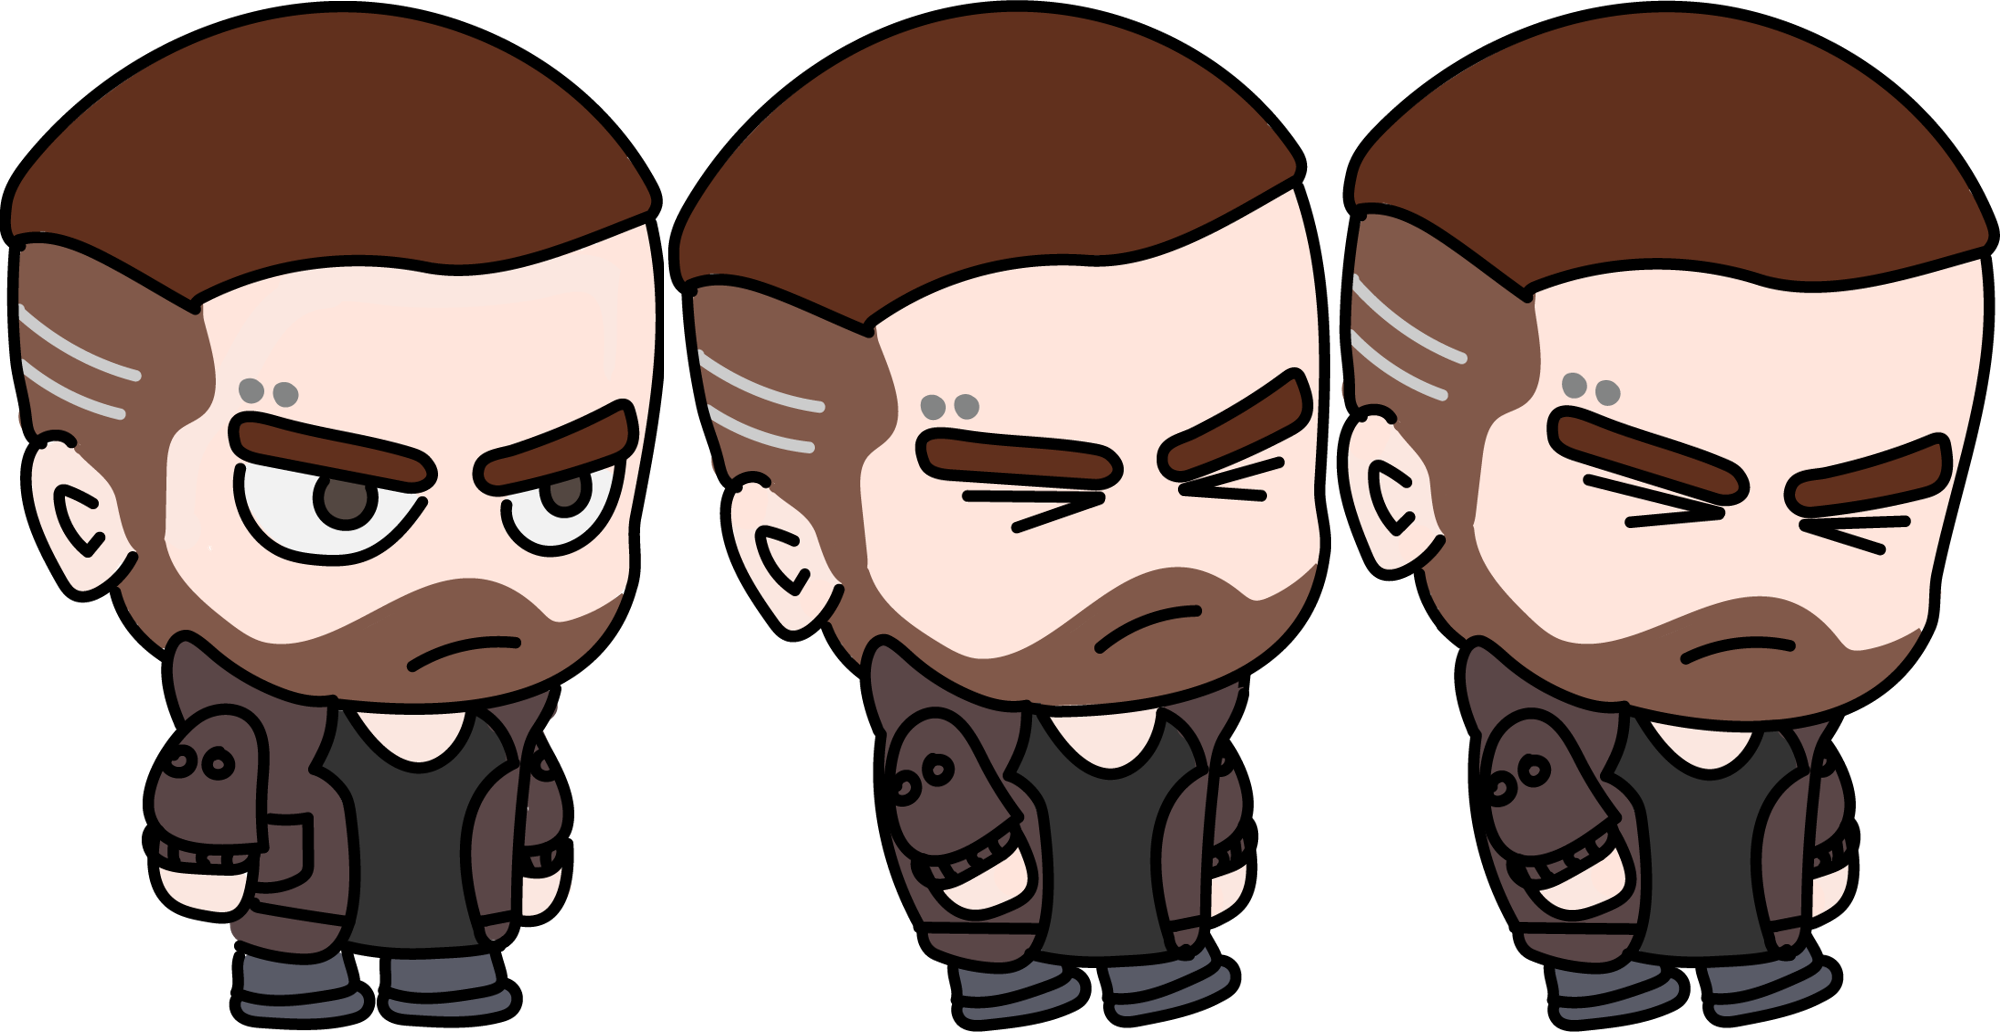
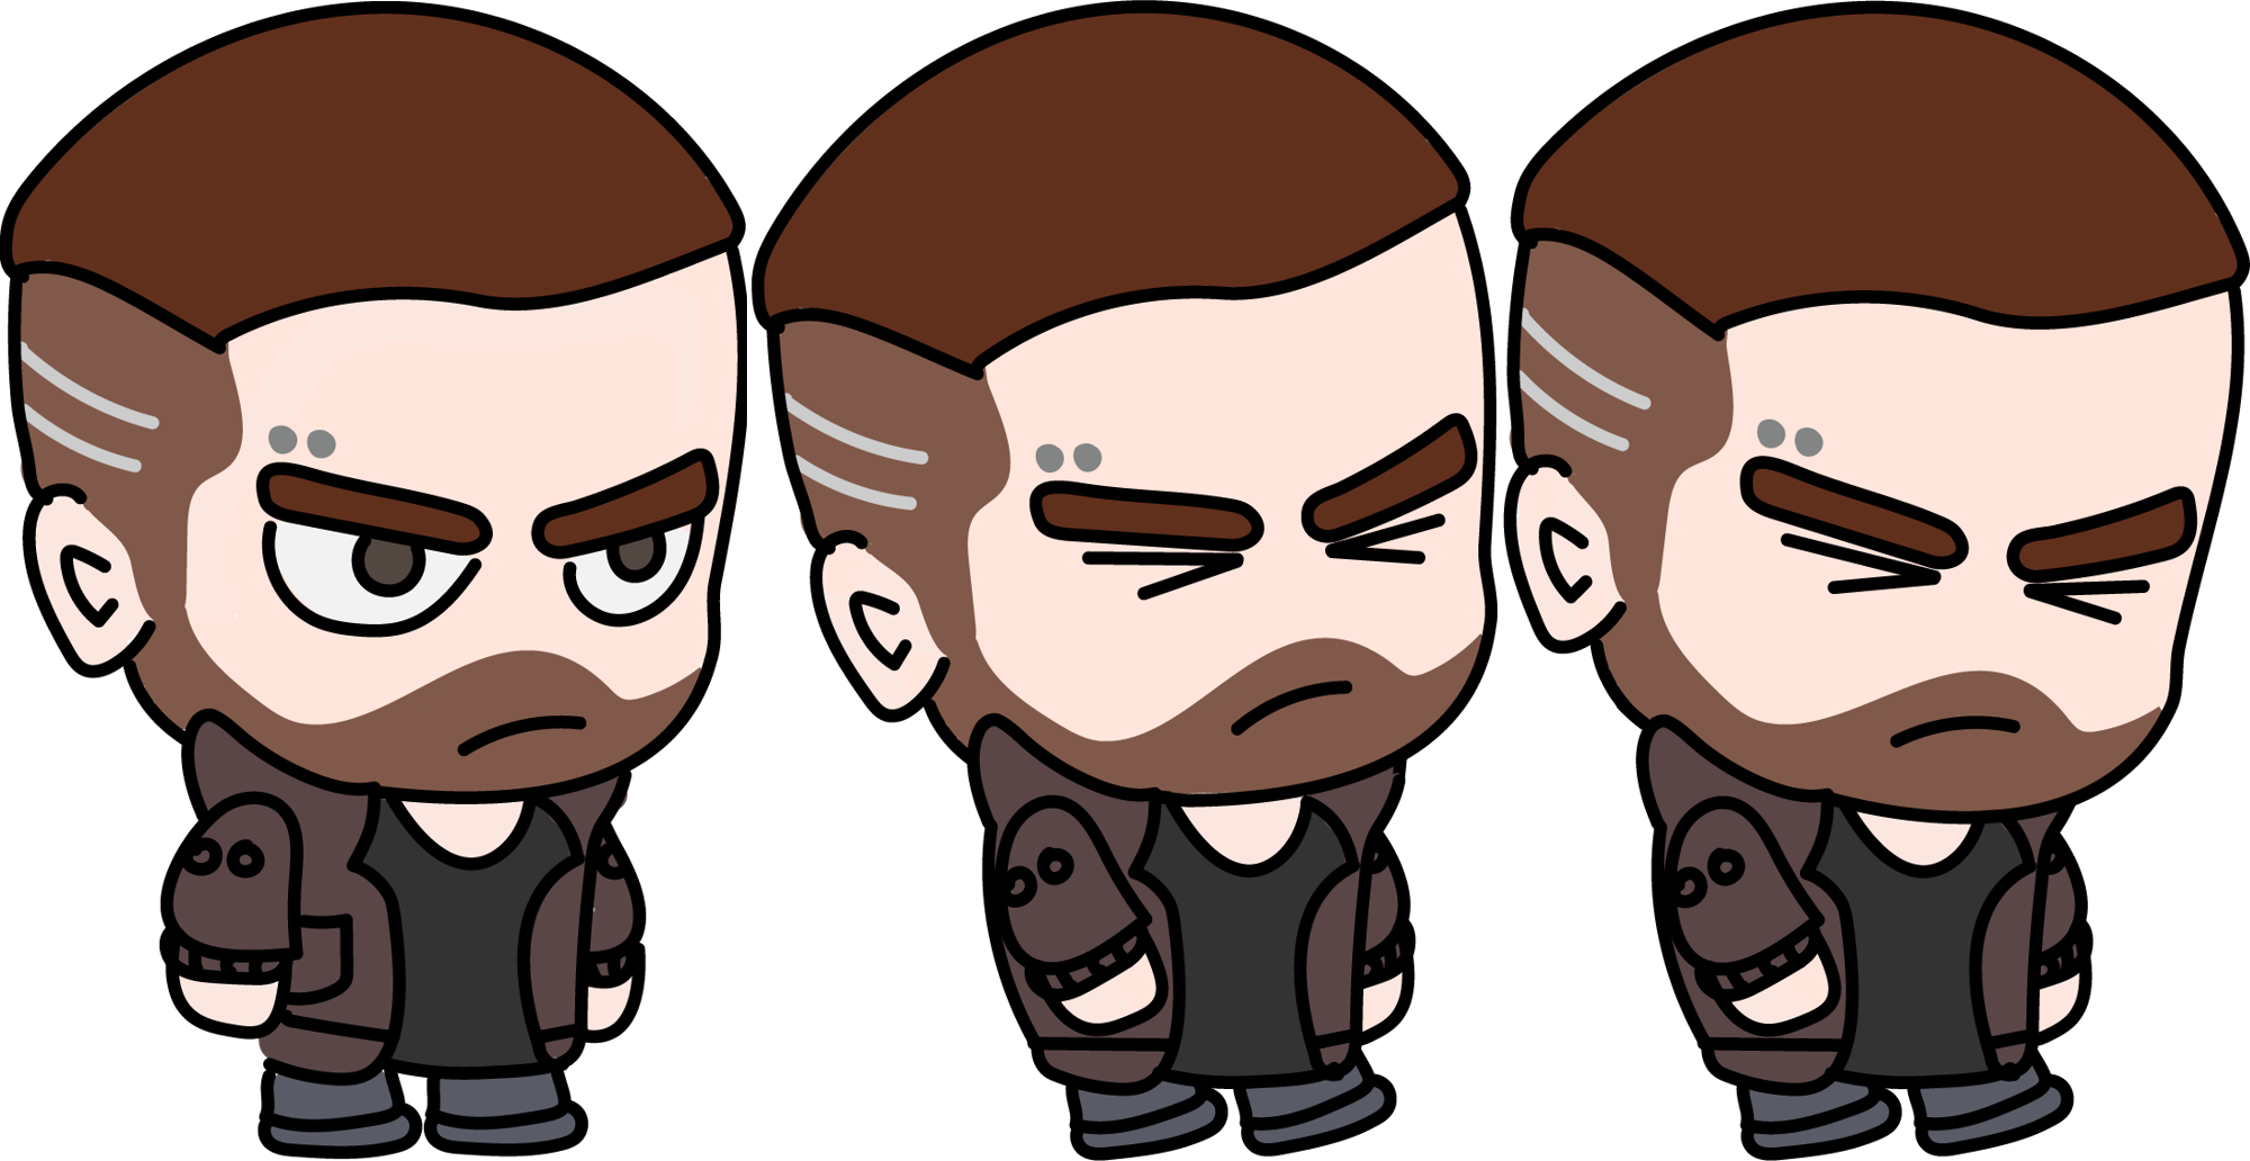
Fixing main character hurt and recovering effect.

Changed region(s): [[0.124, 0.9922, 0.155, 1.0]]

diff --git a/src/main/java/deco2800/skyfall/entities/MainCharacter.java b/src/main/java/deco2800/skyfall/entities/MainCharacter.java
@@ -16,7 +16,6 @@ import deco2800.skyfall.resources.items.Hatchet;
 import deco2800.skyfall.resources.items.PickAxe;
 import deco2800.skyfall.util.*;
 import deco2800.skyfall.worlds.Tile;
-import org.lwjgl.Sys;
 import org.slf4j.Logger;
 import org.slf4j.LoggerFactory;
 
@@ -47,6 +46,8 @@ public class MainCharacter extends Peon
 
     // Variables to sound effects
     public static final String WALK_NORMAL = "people_walk_normal";
+    public static final String HURT = "player_hurt";
+    public static final String DIED = "player_died";
     private SoundManager soundManager = GameManager.get().getManager(SoundManager.class);
 
     //The pick Axe that is going to be created
@@ -126,7 +127,13 @@ public class MainCharacter extends Peon
     private boolean isHurt = false;
 
     /**
-     * Check whether MainCharacter is attacking.
+     * Check id player is recovering
+     */
+    private boolean isRecovering = false;
+    private boolean isTexChanging = false;
+
+    /**
+     * Check id player is attacking
      */
     private boolean isAttacking = false;
 
@@ -192,6 +199,7 @@ public class MainCharacter extends Peon
         this.scale = 0.4f;
         setDirectionTextures();
         configureAnimations();
+        setCollider();
     }
 
     /**
@@ -262,51 +270,62 @@ public class MainCharacter extends Peon
      *
      */
     public void hurt(int damage) {
-        this.changeHealth(-damage);
 
-        if (this.getHealth() <= 0) {
-            kill();
-        } else {
-            hurtTime = 2000;
-            recoverTime = 0;
-            HexVector bounceBack = new HexVector();
-            /*
-            switch (getPlayerDirectionCardinal()) {
-                case "North":
-                    bounceBack = new HexVector(this.direction.getX(), this.direction.getY() - 1);
-                    break;
-                case "North-East":
-                    bounceBack = new HexVector(this.direction.getX() - 1, this.direction.getY() - 1);
-                    break;
-                case "East":
-                    bounceBack = new HexVector(this.direction.getX() - 1, this.direction.getY());
-                    break;
-                case "South-East":
-                    bounceBack = new HexVector(this.direction.getX() - 1, this.direction.getY() + 1);
-                    break;
-                case "South":
-                    bounceBack = new HexVector(this.direction.getX(), this.direction.getY() + 1);
-                    break;
-                case "South-West":
-                    bounceBack = new HexVector(this.direction.getX() + 1, this.direction.getY() + 1);
-                    break;
-                case "West":
-                    bounceBack = new HexVector(this.direction.getX() + 1, this.direction.getY());
-                    break;
-                case "North-West":
-                    bounceBack = new HexVector(this.direction.getX() + 1, this.direction.getY() - 1);
-                    break;
-            }
-            position.moveToward(bounceBack, 0.5f);
+        System.out.println("Hurted: " + isRecovering);
+
+        if(!isRecovering) {
+            setHurt(true);
+            this.changeHealth(-damage);
+
+            if (this.getHealth() <= 0) {
+                kill();
+            } else {
+                hurtTime = 0;
+                recoverTime = 0;
+                HexVector bounceBack = new HexVector();
+
+                switch (getPlayerDirectionCardinal()) {
+                    case "North":
+                        bounceBack = new HexVector(position.getCol(), position.getRow() - 2);
+                        break;
+                    case "North-East":
+                        bounceBack = new HexVector(position.getCol() - 2, position.getRow() - 2);
+                        break;
+                    case "East":
+                        bounceBack = new HexVector(position.getCol() - 2, position.getRow());
+                        break;
+                    case "South-East":
+                        bounceBack = new HexVector(position.getCol() - 2, position.getRow() + 2);
+                        break;
+                    case "South":
+                        bounceBack = new HexVector(position.getCol(), position.getRow() + 2);
+                        break;
+                    case "South-West":
+                        bounceBack = new HexVector(position.getCol() + 2, position.getRow() + 2);
+                        break;
+                    case "West":
+                        bounceBack = new HexVector(position.getCol() - 2, position.getRow());
+                        break;
+                    case "North-West":
+                        bounceBack = new HexVector(position.getCol() + 2, position.getRow() - 2);
+                        break;
+                }
+                position.moveToward(bounceBack, 1f);
             
-            /* AS.PlayOneShot(hurtSound);
-            while(hurtTime < System.currentTimeMillis()) {
-                vel = 0;
-                anim.SetBool("Invincible", true);
-                rb2d.AddForce(new com.badlogic.gdx.math.Vector2(hurtForce.x*forceDir,hurtForce.y));
+                soundManager.playSound("");
+
             }
-            */
-            // recover();
+        }
+    }
+
+    private void checkIfHurtEnded() {
+        hurtTime += 20; // hurt for 1 second
+
+        if (hurtTime > 400) {
+            System.out.println("Hurt ended");
+            setHurt(false);
+            setRecovering(true);
+            hurtTime = 0;
         }
     }
 
@@ -314,16 +333,40 @@ public class MainCharacter extends Peon
      * Player recovers from being attacked. It removes player 's
      * hurt effect (e.g. sprite flashing in red), in hurt().
      */
-    void recover() {
-        setHurt(false);
-        // controller.enabled = true;
+    public boolean isRecovering() {
+        return isRecovering;
+    }
+
+    public void setRecovering(boolean isRecovering) {
+        this.isRecovering = isRecovering;
+    }
+
+    public boolean isTexChanging() {
+        return isTexChanging;
+    }
+
+    public void setTexChanging(boolean isTexChanging) {
+        this.isTexChanging = isTexChanging;
+    }
+
+    private void checkIfRecovered() {
+        System.out.println("Character recovering");
+        recoverTime += 20;
+
+        this.changeCollideability(false);
+
+        if (recoverTime > 2000) {
+            System.out.println("Recovered");
+            setRecovering(false);
+            changeCollideability(true);
+        }
     }
 
     /**
      * Kills the player. and notifying the game that the player
      * has died and cannot do any actions in game anymore.
      */
-    void kill() {
+    public void kill() {
         // stop player controls
         setMaxSpeed(0);
 
@@ -553,15 +596,6 @@ public class MainCharacter extends Peon
         }
     }
 
-    private void checkIfRecovered() {
-        System.out.println("Character is hurt. and recovering");
-        recoverTime += 20;
-        if (recoverTime > hurtTime) {
-            System.out.println("Recovered");
-            setHurt(false);
-        }
-    }
-
     /**
      * Handles tick based stuff, e.g. movement
      */
@@ -577,10 +611,13 @@ public class MainCharacter extends Peon
         //         this.direction.y - this.getRow());
         //        System.out.printf("%s%n", this.currentSpeed);
 
-        if (isHurt) {
+        if(isHurt) {
+            checkIfHurtEnded();
+        } else if(isRecovering) {
             checkIfRecovered();
         }
         this.updateAnimation();
+
         if (Gdx.input.isKeyJustPressed(Input.Keys.B)) {
             GameManager.getManagerFromInstance(ConstructionManager.class).displayWindow();
         }

diff --git a/src/main/java/deco2800/skyfall/renderers/Renderer3D.java b/src/main/java/deco2800/skyfall/renderers/Renderer3D.java
@@ -6,11 +6,14 @@ import com.badlogic.gdx.Gdx;
 import com.badlogic.gdx.graphics.Color;
 import com.badlogic.gdx.graphics.g2d.Animation;
 import com.badlogic.gdx.graphics.g2d.TextureRegion;
+import deco2800.skyfall.GameScreen;
 import deco2800.skyfall.animation.Animatable;
 import deco2800.skyfall.animation.AnimationLinker;
 import deco2800.skyfall.animation.AnimationRole;
 import deco2800.skyfall.entities.*;
+import deco2800.skyfall.gamemenu.GameMenuScreen;
 import deco2800.skyfall.managers.*;
+import org.lwjgl.Sys;
 import org.slf4j.Logger;
 import org.slf4j.LoggerFactory;
 import com.badlogic.gdx.graphics.OrthographicCamera;
@@ -23,6 +26,7 @@ import deco2800.skyfall.util.HexVector;
 import deco2800.skyfall.util.Vector2;
 import deco2800.skyfall.util.WorldUtil;
 import deco2800.skyfall.worlds.Tile;
+import sun.applet.Main;
 
 /**
  * A ~simple~ complex hex renderer for DECO2800 games
@@ -68,7 +72,7 @@ public class Renderer3D implements Renderer {
 
         batch.begin();
         // Render elements section by section
-        // tiles will render the static entity attaced to each tile after the tile is
+        // tiles will render the static entity attached to each tile after the tile is
         // rendered
 
         tilesSkipped = 0;
@@ -206,23 +210,49 @@ public class Renderer3D implements Renderer {
                 if (!(entity instanceof Animatable)) {
                     renderAbstractEntity(batch, entity, entityWorldCoord, tex);
                 } else {
+
+                    Color c = batch.getColor();
+
+                    GameMenuManager gameMenuManager = GameManager.getManagerFromInstance(GameMenuManager.class);
+
+                    if (entity instanceof MainCharacter) {
+                        if (((MainCharacter) entity).IsHurt() || ((MainCharacter) entity).isDead()){
+                            // System.out.println(entity.);
+                            batch.setColor(Color.RED);
+                        } else if(((MainCharacter) entity).isRecovering()) {
+                            if(((MainCharacter) entity).isTexChanging()) {
+                                batch.setColor(c.r, c.g, c.b, 0f);
+                                ((MainCharacter) entity).setTexChanging(!((MainCharacter) entity).isTexChanging());
+                            } else {
+                                batch.setColor(c.r, c.g, c.b, 1f);
+                                ((MainCharacter) entity).setTexChanging(!((MainCharacter) entity).isTexChanging());
+                            }
+                        }
+                    } else {
+                        batch.setColor(c.r, c.g, c.b, 1f);
+                    }
                     runAnimation(batch, entity, entityWorldCoord);
+                    batch.setColor(c.r, c.g, c.b, 1f);
                 }
+
 
                 /* Draw Peon */
                 // Place movement tiles
+
+                /*
                 if (entity instanceof Peon && GameManager.get().showPath) {
                     renderPeonMovementTiles(batch, camera, entity, entityWorldCoord);
                 }
 
+                */
 
             }
 
         }
 
-
         GameManager.get().setEntitiesRendered(entities.size() - entitiesSkipped);
         GameManager.get().setEntitiesCount(entities.size());
+
     }
 
     /**
@@ -331,7 +361,6 @@ public class Renderer3D implements Renderer {
             renderAbstractEntity(batch, entity, entityWorldCoord, textureManager.getTexture(entity.getTexture()));
         }
     }
-
 
     /**
      * Runs an animation for the entity if it is applicable if there is

diff --git a/src/main/java/deco2800/skyfall/managers/SoundManager.java b/src/main/java/deco2800/skyfall/managers/SoundManager.java
@@ -54,6 +54,10 @@ public class SoundManager extends AbstractManager {
                     (Gdx.files.internal(PATH + "bow and arrow attack.wav")));
             soundMap.put("axe_attack", Gdx.audio.newSound
                     (Gdx.files.internal(PATH + "axe attack.wav")));
+            soundMap.put("player_hurt", Gdx.audio.newSound
+                    (Gdx.files.internal(PATH + "be_hit.wav")));
+            soundMap.put("player_died", Gdx.audio.newSound
+                    (Gdx.files.internal(PATH + "died.wav")));
         } catch(Exception e) {
             LOGGER.error("no song be found");
         }

diff --git a/src/main/java/deco2800/skyfall/managers/AnimationManager.java b/src/main/java/deco2800/skyfall/managers/AnimationManager.java
@@ -111,7 +111,7 @@ public class AnimationManager extends AbstractManager {
 
         this.generateAnimationObject("MainCharacter_Hurt_E_Anim",
                 "MainCharacter_Hurt_E_Anim",
-                667, 1032, 0.2f);
+                750, 1161, 0.2f);
 
         this.generateAnimationObject("MainCharacter_Dead_E_Anim",
                 "MainCharacter_Dead_E_Anim",

diff --git a/src/main/java/deco2800/skyfall/renderers/Renderer.java b/src/main/java/deco2800/skyfall/renderers/Renderer.java
@@ -15,5 +15,5 @@ public interface Renderer {
      * Renderers must be able to render a world given a list of Entities and a batch renderer
      * @param batch Batch to render onto
      */
-    void render(SpriteBatch batc, OrthographicCamera camera);
+    void render(SpriteBatch batch, OrthographicCamera camera);
 }

diff --git a/src/main/java/deco2800/skyfall/entities/Stone.java b/src/main/java/deco2800/skyfall/entities/Stone.java
@@ -189,10 +189,9 @@ public class Stone extends EnemyEntity implements Animatable {
                 period++;
             } else {
                 period = 0;
-                player.setHurt(true);
                 player.hurt(this.getDamage());
-            }
 
+            }
         }
     }
 

diff --git a/src/main/java/deco2800/skyfall/entities/ICombatEntity.java b/src/main/java/deco2800/skyfall/entities/ICombatEntity.java
@@ -18,8 +18,6 @@ public interface ICombatEntity extends HasHealth {
 
     /**
      * Some combat entities will only be able to be attacked.
-     *
-     * @return If the combat entity can deal damage.
      */
     boolean canDealDamage();
 
